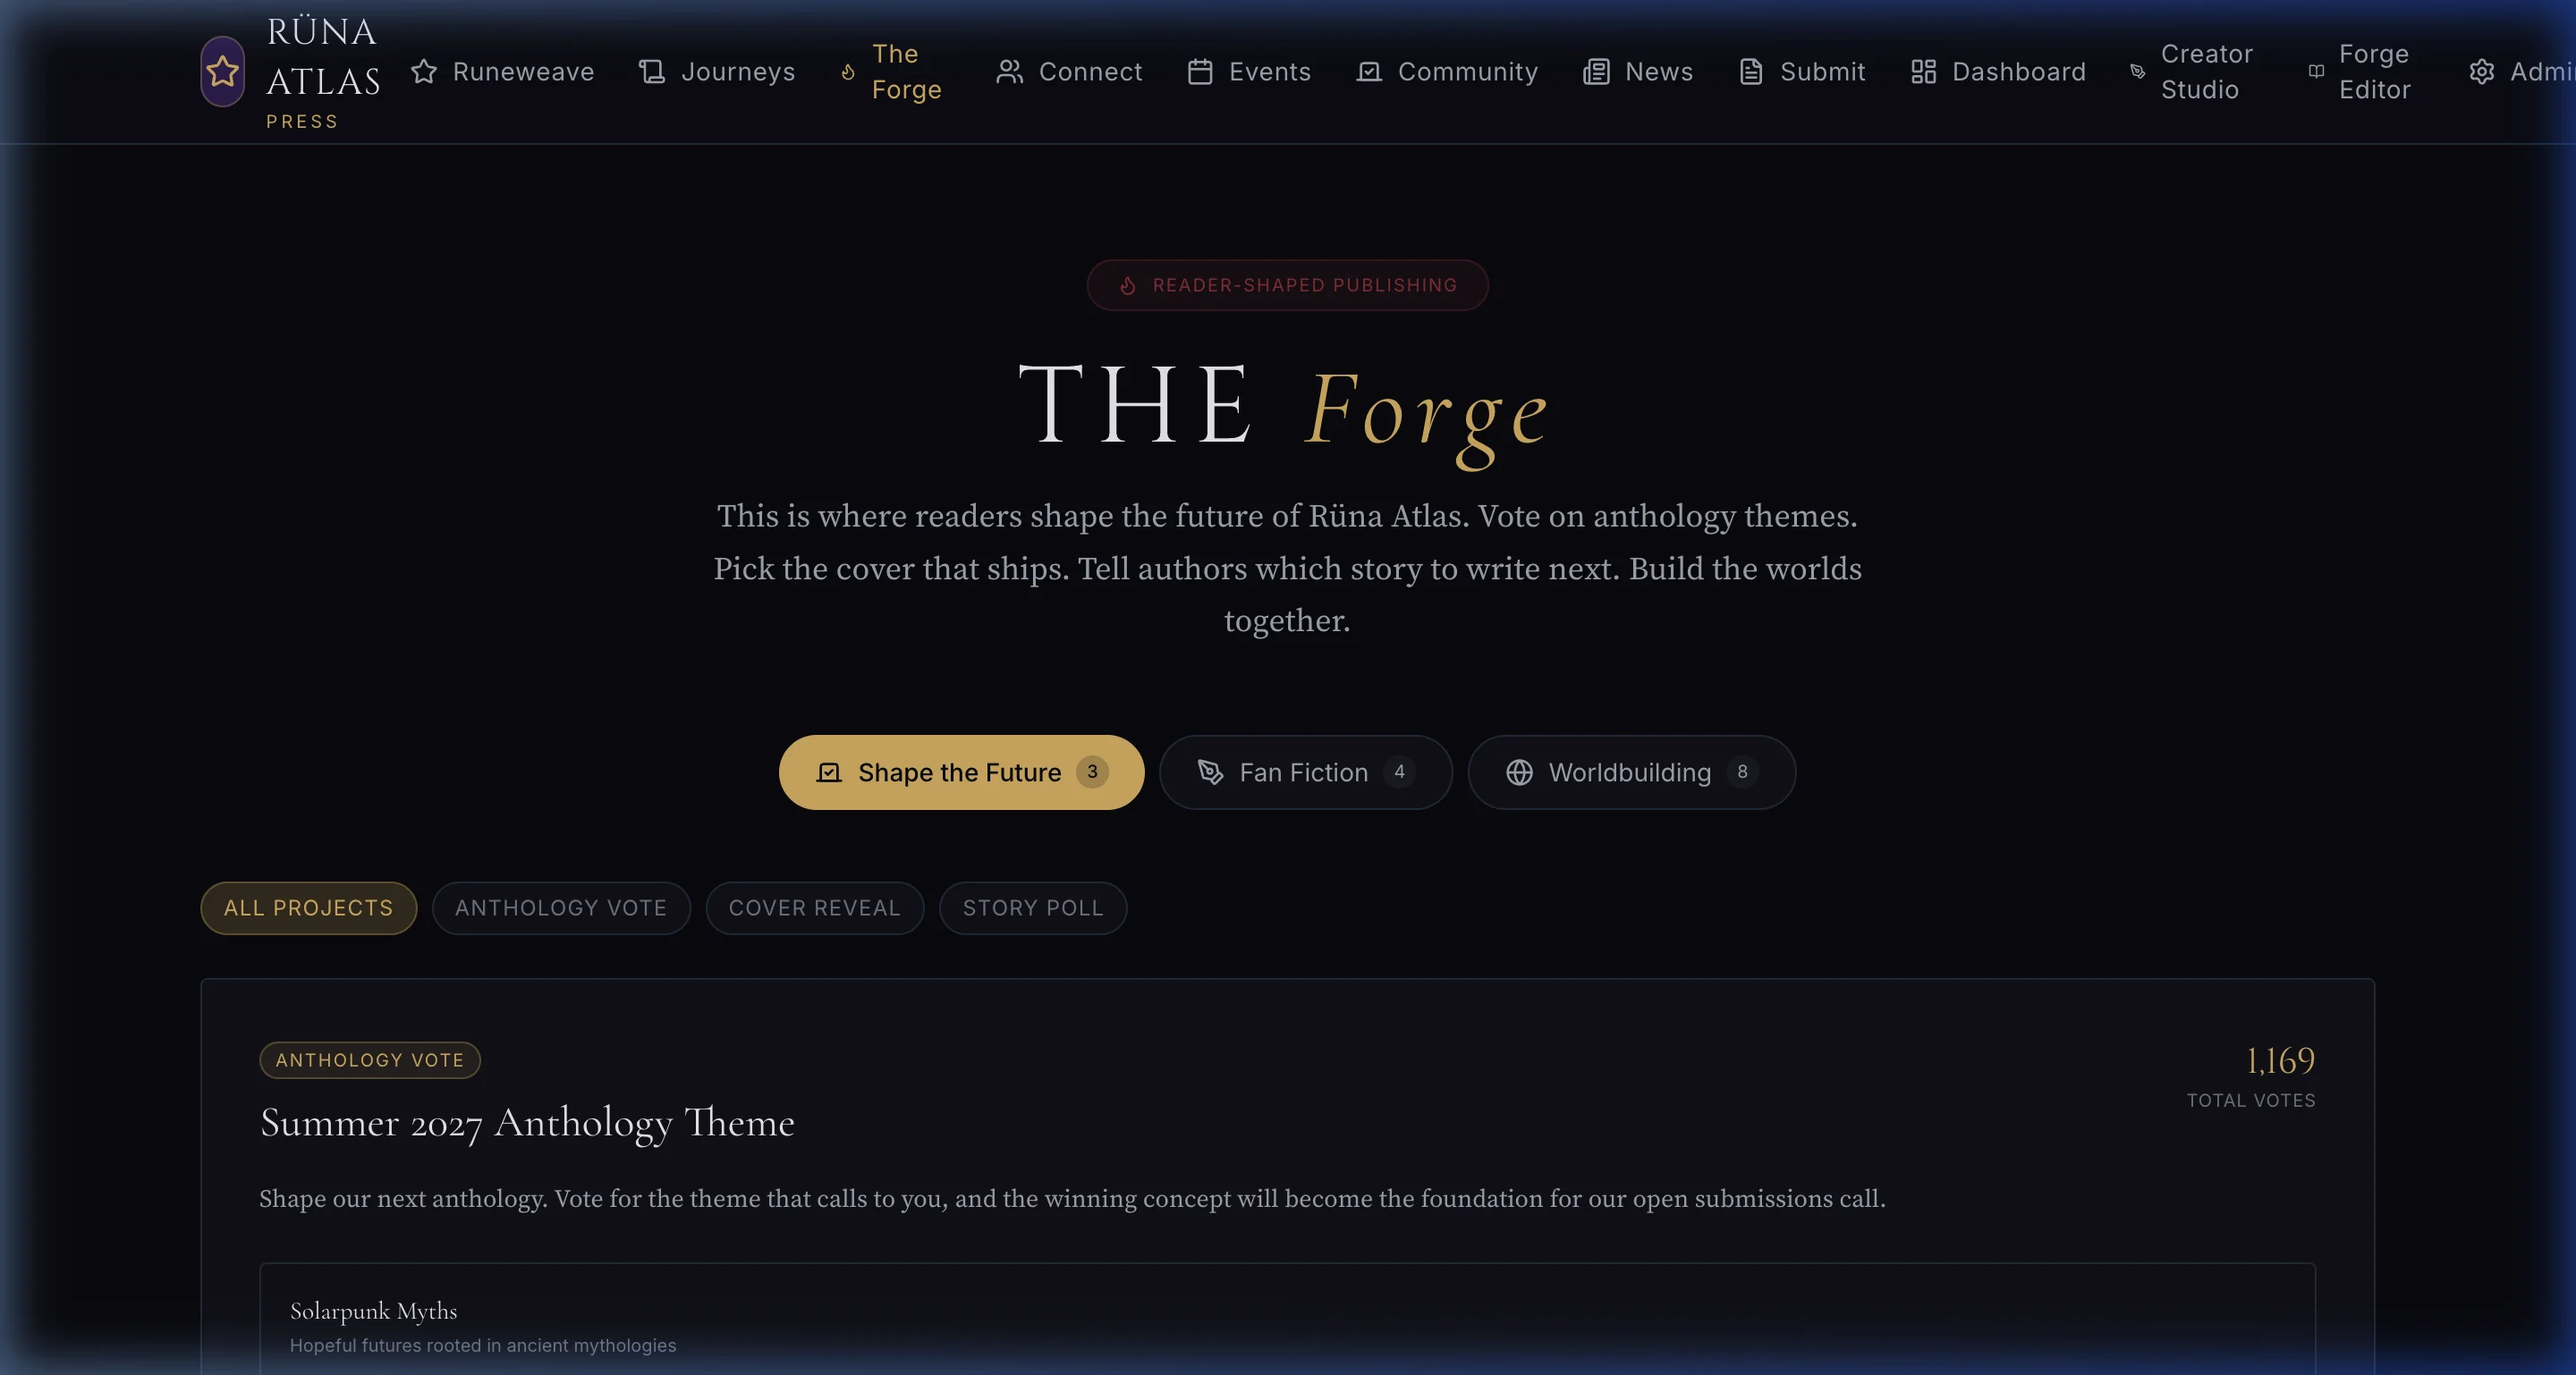
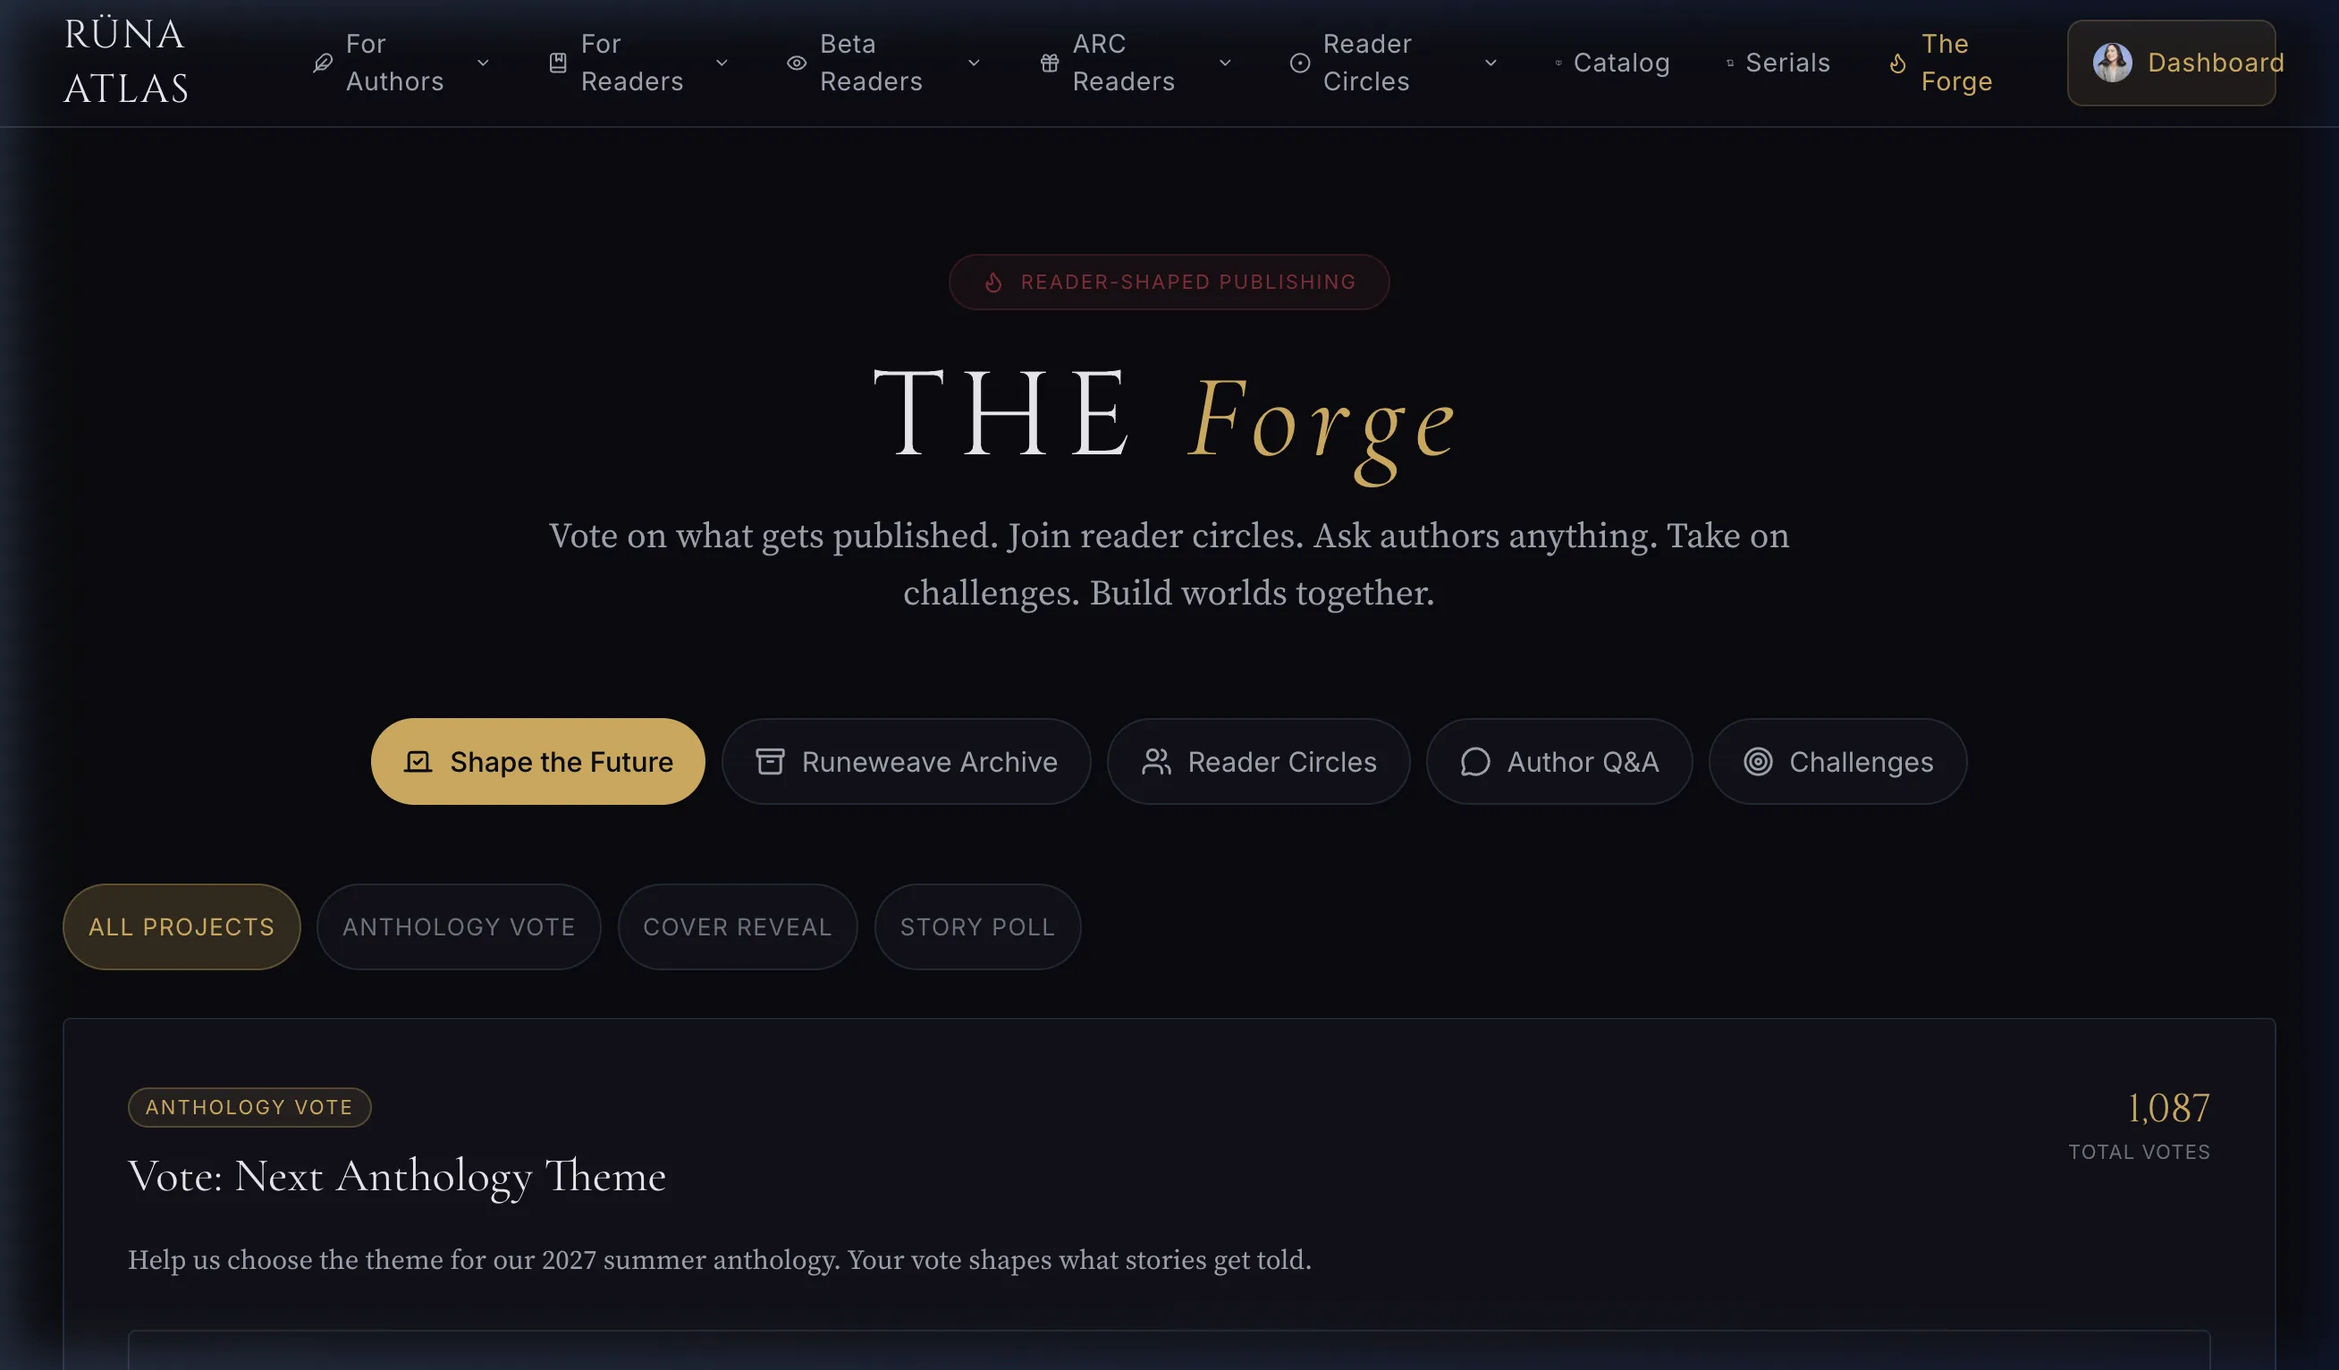
feat: update For Authors & For Readers landing pages
ForReaders.tsx:
- Replace fan fiction/worldbuilding references with Runeweave Archive
- Update Forge feature to reflect 5-tab consolidated hub
- Replace 'Fan Fiction & World Wiki' grid card with 'Runeweave Archive'
- Replace 'Reading Challenges' grid card with 'Community Champions'
- Update comparison column with Archive + Champions
- Fix reader journey step 3 text
- Change CTA link from /community to /forge

ForAuthors.tsx:
- Update Community section to 'The Forge & Community'
- Add Community Champions sub-feature card
- Add Runeweave Archive sub-feature card
- Update feature descriptions for Forge consolidation

New assets:
- forge-voting.webp (updated Forge 5-tab screenshot)
- champions.webp (Community Champions page)
- runeweave-archive.webp (Archive hub page)

diff --git a/src/pages/ForReaders.tsx b/src/pages/ForReaders.tsx
@@ -27,6 +27,8 @@ import passageCollectionsImg from '../assets/features/passage-collections.webp';
 import bookDnaImg from '../assets/features/book-dna.webp';
 import readerCompatibilityImg from '../assets/features/reader-compatibility.webp';
 import contentCompassImg from '../assets/features/content-compass.webp';
+import championsImg from '../assets/features/champions.webp';
+import archiveImg from '../assets/features/runeweave-archive.webp';
 
 // ═══════════════════════════════════════════
 // FOR READERS — SaaS-style feature showcase
@@ -236,14 +238,14 @@ export default function ForReaders() {
             <FeatureShowcase
                 badge="The Forge"
                 title={<>Your Vote<br /><span className="text-aurora-teal">Shapes What Ships</span></>}
-                description="The Forge is where readers become co-creators. Vote on anthology themes, choose between cover designs, decide story directions — and contribute your own fan fiction and world-building entries. This is publishing that actually listens."
+                description="The Forge is your creative hub. Vote on anthology themes, choose between cover designs, join reader circles, ask authors anything, and take on reading challenges. Five tabs of pure community engagement — this is publishing that actually listens."
                 image={forgeVotingImg}
                 features={[
                     'Anthology theme voting with real-time results',
                     'Cover design elections: pick the art that ships',
-                    'Story direction polls: influence sequel plotlines',
-                    'Fan fiction submissions with likes and tags',
-                    'Collaborative world wiki: contribute lore entries',
+                    'Reader Circles & Author Q&A in one place',
+                    'Reading challenges with goal tracking & milestones',
+                    'The Runeweave Archive: contribute creative artifacts',
                 ]}
                 reverse={true}
                 accent="teal"
@@ -439,15 +441,15 @@ export default function ForReaders() {
                             icon={Library}
                         />
                         <SubFeatureCard
-                            image={forgeVotingImg}
-                            title="Fan Fiction & World Wiki"
-                            description="Write stories set in the worlds you love and contribute to collaborative lore wikis. Your creativity becomes part of the living canon."
+                            image={archiveImg}
+                            title="Runeweave Archive"
+                            description="Submit moodboards, playlists, glossaries, craft essays, and more. Community-driven creative artifacts that celebrate the books you love."
                             icon={PenTool}
                         />
                         <SubFeatureCard
-                            image={communityImg}
-                            title="Reading Challenges"
-                            description="Set annual reading goals, join seasonal challenges, and track your progress with the community. Compete, discover new genres, and push your boundaries."
+                            image={championsImg}
+                            title="Community Champions"
+                            description="Founders Wall honoring the first 250 members, gamified badges for contributions, and live leaderboards. Your engagement gets recognized."
                             icon={Flame}
                         />
                     </motion.div>
@@ -469,7 +471,7 @@ export default function ForReaders() {
                         className="grid grid-cols-1 md:grid-cols-3 gap-6">
                         {[
                             { label: 'Kindle / Amazon', items: ['Algorithm-driven discovery', 'Basic e-reader, no social features', 'No author interaction', 'No voting or creative input', 'Reviews are the only feedback channel'], bad: true },
-                            { label: 'Runa Atlas', items: ['Interactive star-map discovery', 'Immersive reader with reactions & highlights', 'AMAs, office hours, writing journals', 'Vote on covers, themes, and story directions', 'Reading circles with discussion guides', 'Live events and workshops', 'Fan fiction and collaborative world wikis', 'Personal library with cross-device sync'], highlight: true },
+                            { label: 'Runa Atlas', items: ['Interactive star-map discovery', 'Immersive reader with reactions & highlights', 'AMAs, office hours, writing journals', 'Vote on covers, themes, and story directions', 'Reading circles with discussion guides', 'Live events and workshops', 'Runeweave Archive: community creative artifacts', 'Community Champions, badges & leaderboards'], highlight: true },
                             { label: 'Goodreads', items: ['Catalog and reviews only', 'No reading experience built in', 'Author Q&A is one-way', 'No creative input on publishing', 'Groups are basic forum threads'], bad: true },
                         ].map((col, idx) => (
                             <motion.div key={idx} variants={fadeUp}
@@ -518,7 +520,7 @@ export default function ForReaders() {
                         {[
                             { step: '01', title: 'Discover', desc: 'Explore the Runeweave star-map. Follow constellations that match your taste. Find books through connections and themes, not bestseller lists.', icon: Compass },
                             { step: '02', title: 'Read', desc: 'Dive into the immersive reader. Highlight passages, leave reactions, follow serialized Journeys episode by episode, and switch between dark and sepia themes.', icon: BookOpen },
-                            { step: '03', title: 'Shape', desc: 'Vote on anthology themes in The Forge, pick cover designs, influence story directions. Write fan fiction, contribute to world wikis. Your voice matters here.', icon: Vote },
+                            { step: '03', title: 'Shape', desc: 'Vote on anthology themes in The Forge, pick cover designs, influence story directions. Contribute to the Runeweave Archive. Your voice matters here.', icon: Vote },
                             { step: '04', title: 'Connect', desc: 'Join reading circles, attend author AMAs and live events, and participate in discussions with readers who share your obsessions.', icon: Users },
                             { step: '05', title: 'Belong', desc: 'Build your library, track your reading challenges, earn community recognition, and become part of a literary ecosystem that grows with you.', icon: Heart },
                         ].map((item, idx) => (
@@ -629,8 +631,8 @@ export default function ForReaders() {
                         <Link to="/" className="group px-10 py-4 bg-aurora-teal text-void-black font-semibold text-sm uppercase tracking-widest rounded-sm hover:bg-aurora-teal/90 transition-all flex items-center gap-3">
                             Enter the Runeweave <ArrowRight className="w-4 h-4 group-hover:translate-x-1 transition-transform" />
                         </Link>
-                        <Link to="/community" className="px-10 py-4 border border-white/[0.15] text-white text-sm uppercase tracking-widest rounded-sm hover:border-aurora-teal/40 hover:text-aurora-teal transition-all">
-                            Join the Community
+                        <Link to="/forge" className="px-10 py-4 border border-white/[0.15] text-white text-sm uppercase tracking-widest rounded-sm hover:border-aurora-teal/40 hover:text-aurora-teal transition-all">
+                            Enter The Forge
                         </Link>
                     </div>
                 </motion.div>

diff --git a/src/pages/ForAuthors.tsx b/src/pages/ForAuthors.tsx
@@ -5,7 +5,8 @@ import {
     MessageSquare, Star, Heart, Shield, Gem, Zap, ArrowRight,
     ChevronDown, Check, GitBranch, Eye, Target, Mic, Quote,
     TrendingUp, Award, Globe, Layers, Brain, Feather, Crown,
-    Flame, Calendar, Send, DollarSign, UserCircle, Rocket
+    Flame, Calendar, Send, DollarSign, UserCircle, Rocket,
+    Trophy, Archive
 } from 'lucide-react';
 import { useRef, useState, useEffect } from 'react';
 import { doc, onSnapshot } from 'firebase/firestore';
@@ -31,6 +32,8 @@ import submissionTrackerImg from '../assets/features/submission-tracker.webp';
 import royaltyCalculatorImg from '../assets/features/royalty-calculator.webp';
 import authorProfileImg from '../assets/features/author-profile.webp';
 import onboardingWizardImg from '../assets/features/onboarding-wizard.webp';
+import championsImg from '../assets/features/champions.webp';
+import archiveImg from '../assets/features/runeweave-archive.webp';
 
 // ═══════════════════════════════════════════
 // FOR AUTHORS — SaaS-style feature showcase
@@ -297,16 +300,16 @@ export default function ForAuthors() {
 
             {/* ═══════ FEATURE 5: COMMUNITY ═══════ */}
             <FeatureShowcase
-                badge="The Runeweave"
+                badge="The Forge & Community"
                 title={<>A Community That<br /><span className="text-starforge-gold">Amplifies Your Voice</span></>}
-                description="The Runeweave is our community hub where readers and authors connect. Constellation voting lets your audience shape anthology themes. Reader Circles bring your books to book clubs. Discussion kits drive deeper engagement with your work."
+                description="The Forge consolidates everything in one hub — voting, reader circles, author Q&A, reading challenges, and the Runeweave Archive. Your audience shapes anthology themes, joins book clubs, and engages directly with your work. Community Champions recognize your most dedicated fans."
                 image={communityImg}
                 features={[
                     'Constellation voting: community-driven anthology curation',
                     'Reader Circles: organized book clubs with discussion guides',
-                    'Q&A sessions: connect directly with your readers',
-                    'Author spotlights and featured author programs',
-                    'Engagement metrics: see how your community is growing',
+                    'Author Q&A sessions with upvoting and live events',
+                    'Runeweave Archive: reader-made glossaries, moodboards, essays',
+                    'Community Champions: badges, leaderboards, Founders Wall',
                 ]}
                 reverse={false}
             />
@@ -434,6 +437,18 @@ export default function ForAuthors() {
                             title="Guided Onboarding"
                             description="A thoughtful 5-step setup wizard that captures your pen name, genres, writing style, goals, and preferences — personalizing the entire platform to your creative process."
                             icon={Rocket}
+                        />
+                        <SubFeatureCard
+                            image={championsImg}
+                            title="Community Champions"
+                            description="Your most engaged readers get recognized. Founders Wall, gamified badges, review leaderboards, and archive weaver rankings — building a thriving fan community around your work."
+                            icon={Trophy}
+                        />
+                        <SubFeatureCard
+                            image={archiveImg}
+                            title="Runeweave Archive"
+                            description="Readers create glossaries, moodboards, playlists, and craft essays inspired by your worlds. A living gallery of community creativity that deepens engagement with your stories."
+                            icon={Archive}
                         />
                     </motion.div>
                 </div>
